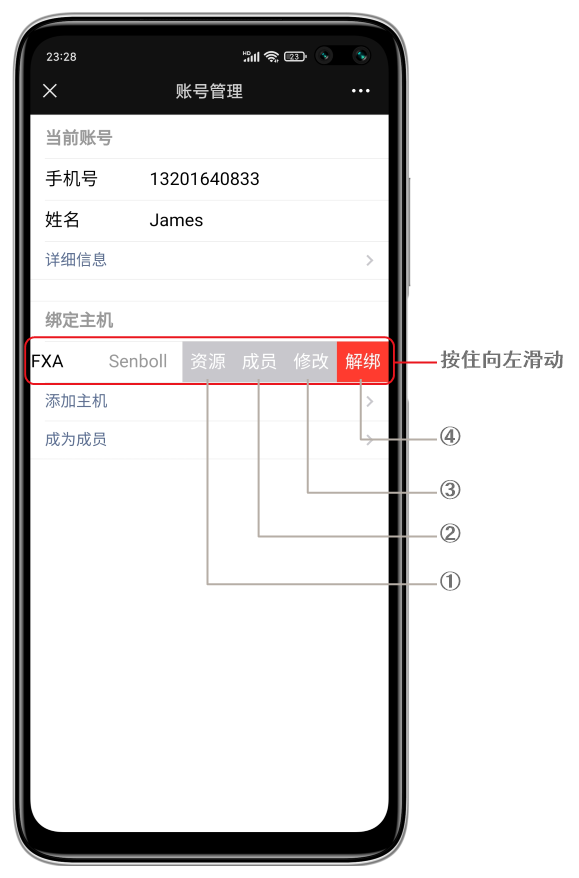
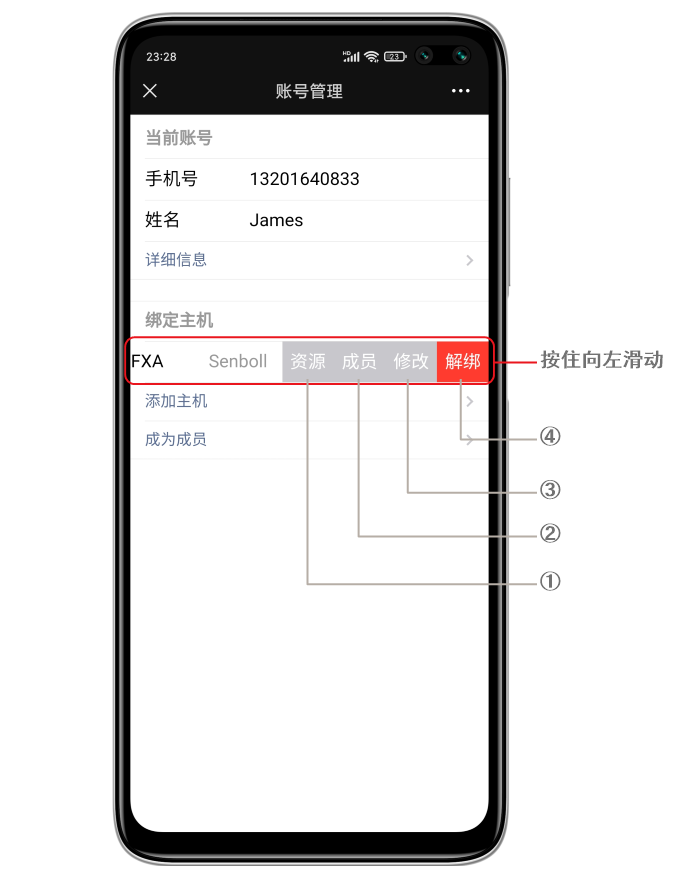
update

diff --git a/content/zh/node3/wechat-module/_index.md b/content/zh/node3/wechat-module/_index.md
@@ -65,14 +65,12 @@ toc: true
 管理员进入管理模式的方法：公众号首页点击{{< button >}}账户管理{{< /button >}} → {{< button >}}账户管理{{< /button >}}，在弹出的页面按住已添加的主机左滑，将打开更多配置选项：
 ![更多主机设置](images/wechat-settings-account-manage-output.png)
 
-①：解绑 - 解绑当前手机，替换或者转移系统的时候需要解绑；  
-②：修改 - 修改当前主机的一些配置信息  
-③：成员 - 增减和设置成员权限  
-④：资源 - 配置分区、防区、用户、门等资源，要和主机编程的参数相匹配。
+①：资源 - 目前主机配置参数不能自动同步到微信端，微信端需要手动配置，如：**分区标签**、**防区数和标签**、**用户数和标签**、**门数和标签**等；  
+②：成员 - 增减成员和设置其权限；  
+③：修改 - 修改当前主机的一些配置信息，如**分区数**等；  
+④：解绑 - 解绑当前手机，替换或者转移系统给其他人。
 
-#### 设置资源
-
-使用管理员手机微信进入枫叶安防公众号首页点击{{< button >}}账户管理{{< /button >}} → {{< button >}}账户管理{{< /button >}}，在弹出的页面按住已添加的主机左滑，将打开更多配置选项，如图：
+#### 资源设置
 
 打开资源设置页面，对主机的一些资源设置，包含防区、分区、用户、门、视频通道的标签等，如图：
 ![对主机的一些资源设置](images/source-panel-settings.png)
@@ -108,6 +106,11 @@ toc: true
 
 管理员回到公众号首页点击{{< button >}}账户管理{{< /button >}} → {{< button >}}账户管理{{< /button >}}，在弹出的页面按住已添加的主机左滑，将打开更多配置选项，选择{{< button >}}成员{{< /button >}}选项，在打开添加成员的设置页面选择一个用户，按住向左滑动打开设置选项，点{{< button >}}修改{{< /button >}}进入权限设置页面：
 ![添加新成员的二维码](images/user-manage-2.png)
+
+#### 修改
+
+如果已添加了主机，需要修改当前主机的分区数等，进入此菜单设置即可，如下图：
+![添加新成员的二维码](images/panel-edit.png)
 
 ### 布撤防操作
 
